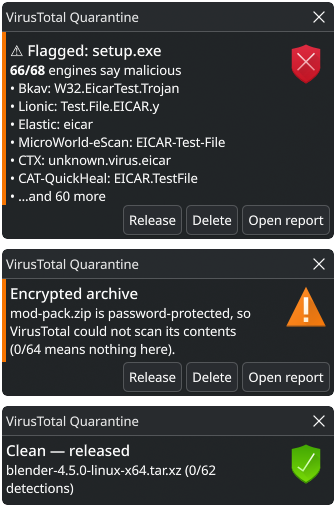
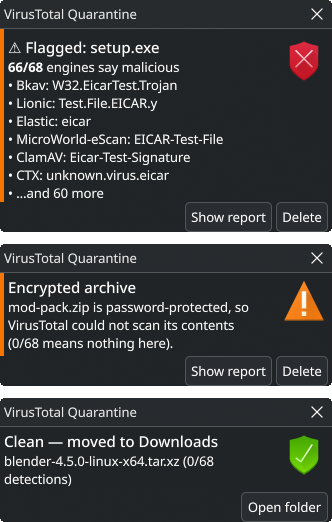
New notification screenshot with the current buttons

diff --git a/README.md b/README.md
@@ -9,8 +9,8 @@ entirely through notifications. The only thing it needs is Python; on Windows
 the setup installs that for you if it's missing.
 
 <p align="center">
-  <img src="docs/notifications.png" width="336"
-       alt="Notifications: a flagged setup.exe (66/68 engines) and an encrypted archive, both with Release / Delete / Open report buttons, and a clean file released automatically">
+  <img src="docs/notifications.png" width="332"
+       alt="Notifications: a flagged setup.exe (66/68 engines) and an encrypted archive, both with Show report / Delete buttons, and a clean file moved to Downloads automatically, with an Open folder button">
 </p>
 
 ## Install
